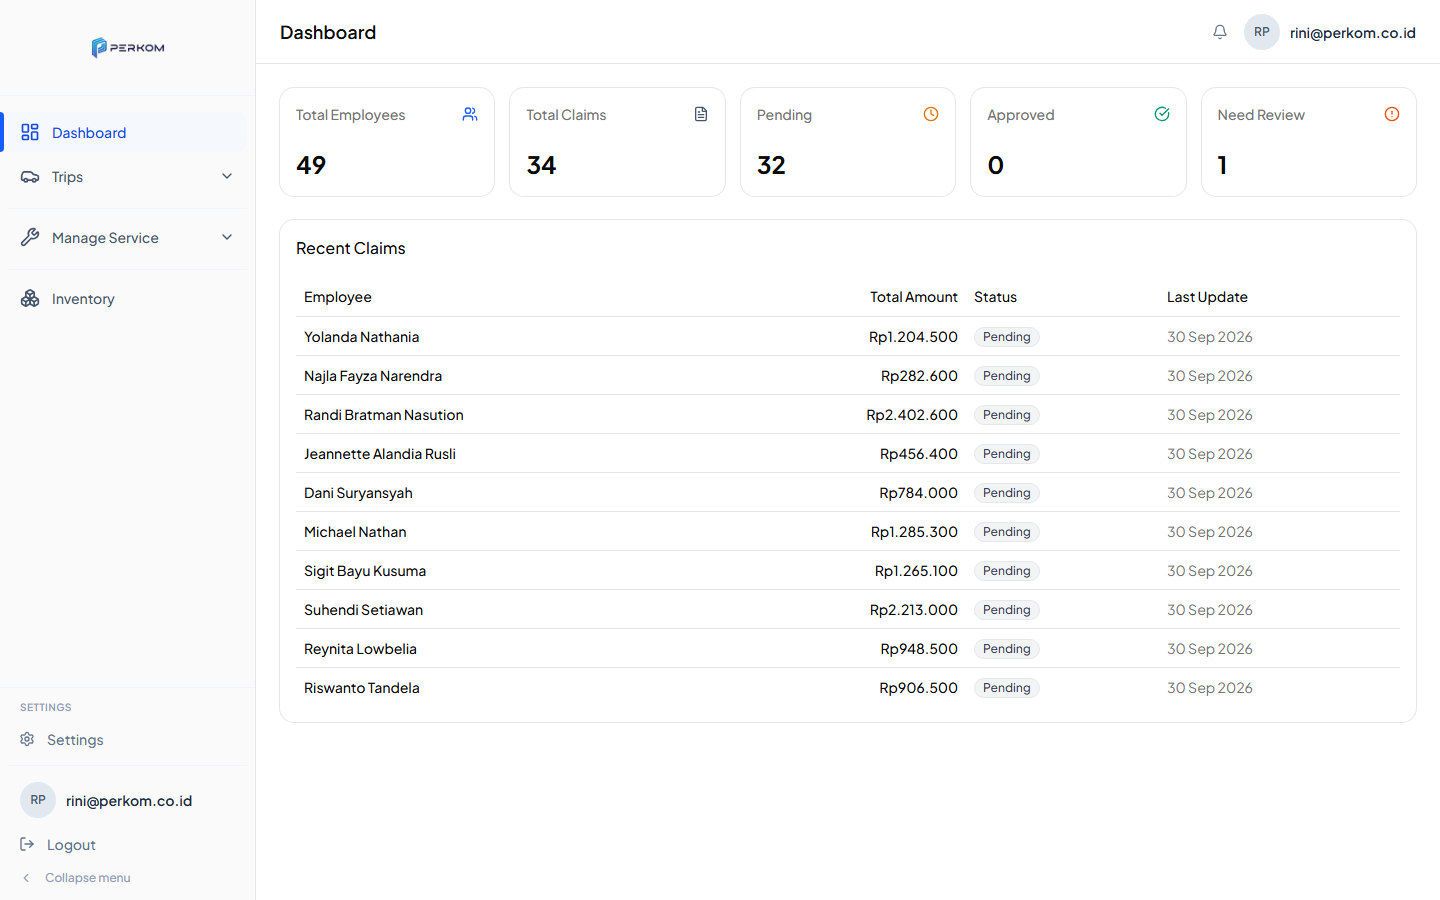
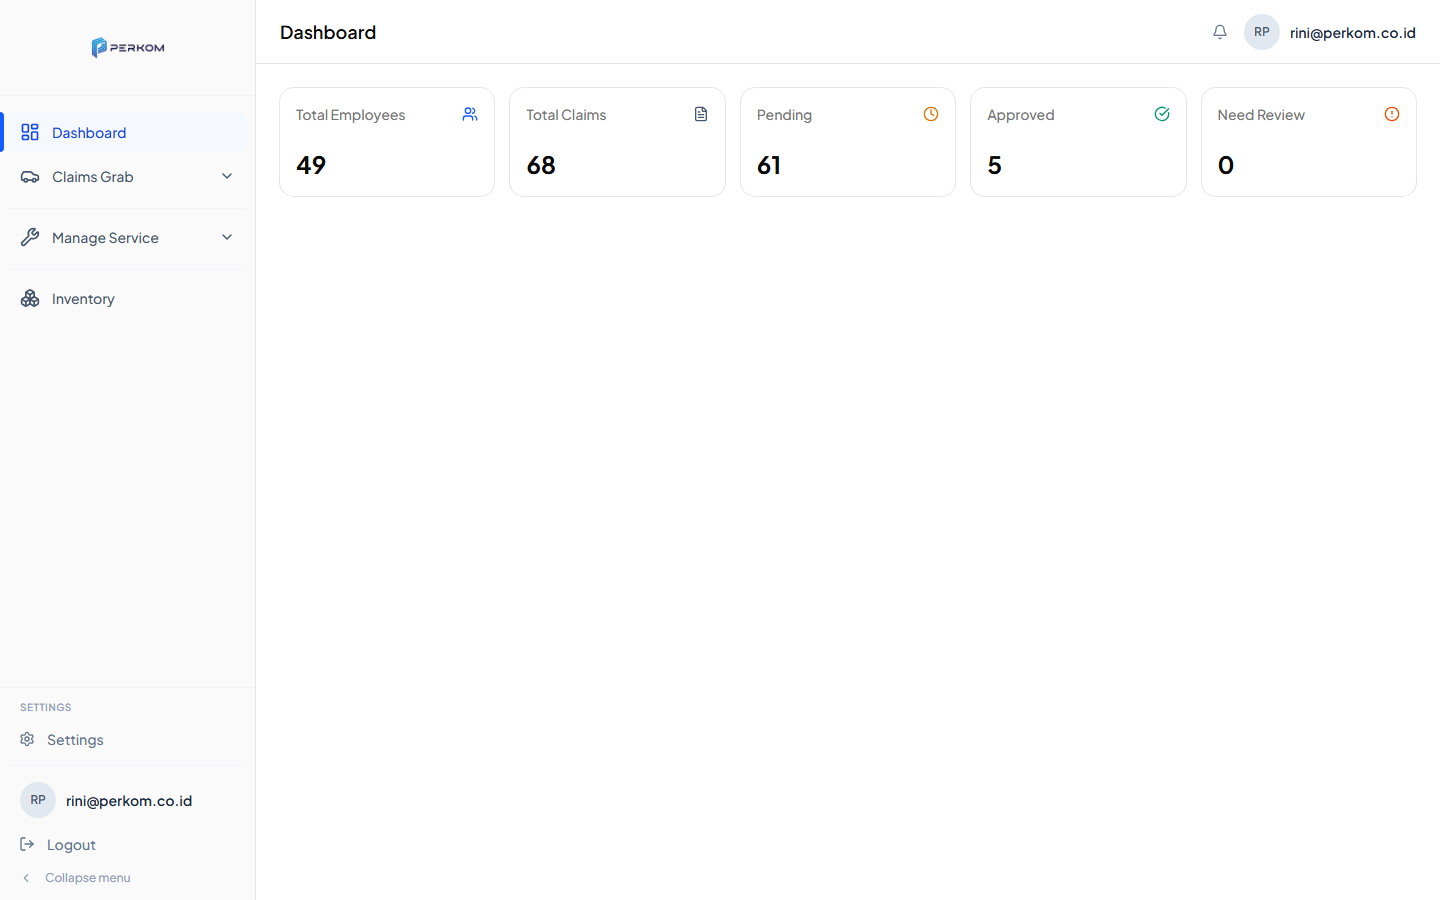
fix(docs): screenshot dashboard tanpa tabel Recent Claims + cache-bust ?v=2

diff --git a/src/app/docs/page.tsx b/src/app/docs/page.tsx
@@ -165,7 +165,7 @@ const CONTENT: Record<string, ReactNode> = {
           <>Klik tombol <b>Login</b> — Anda masuk ke Dashboard.</>,
         ]}
       />
-      <Shot src="/docs/dashboard.png" caption="Halaman Dashboard setelah login" />
+      <Shot src="/docs/dashboard.png?v=2" caption="Halaman Dashboard setelah login" />
     </>
   ),
 
